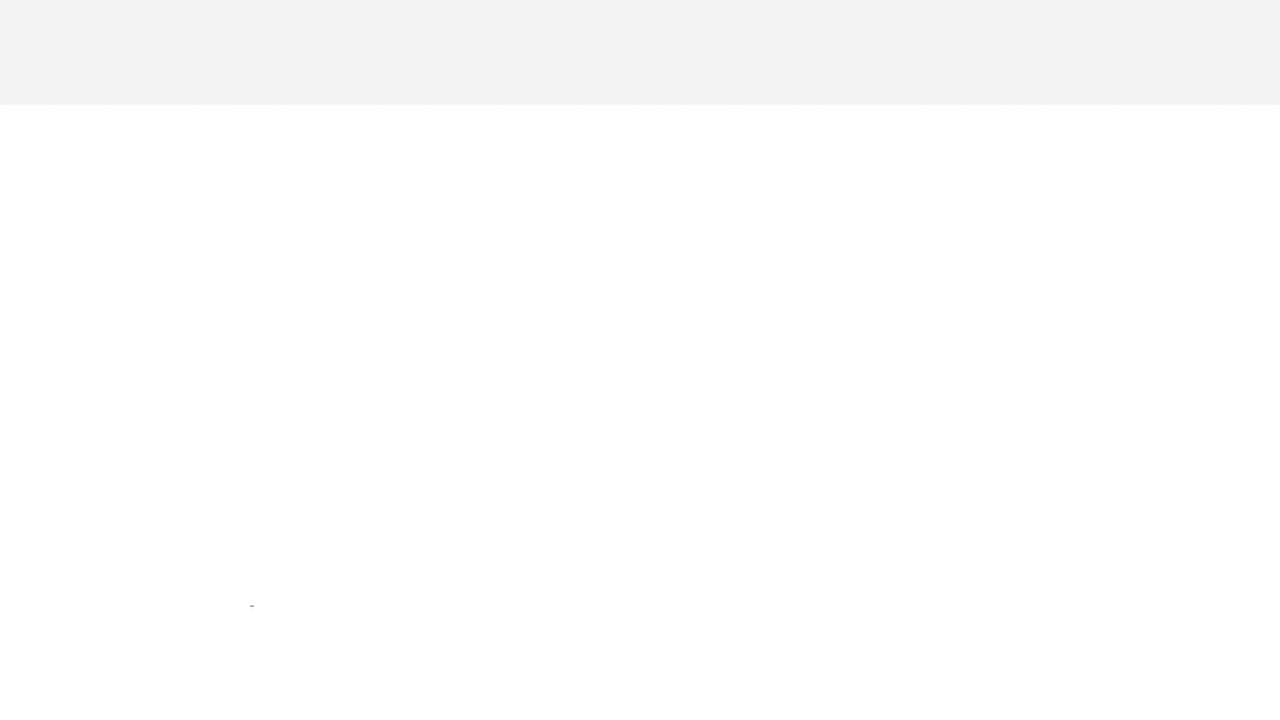
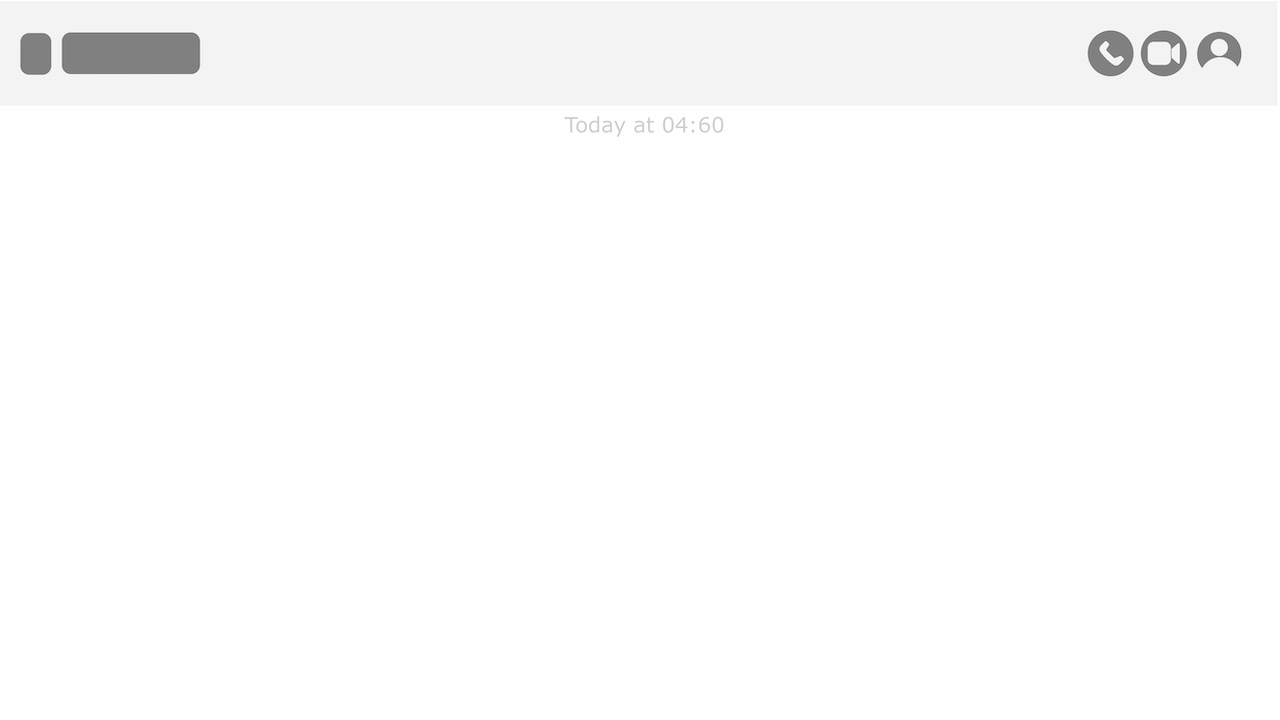
Updated visuals

Changed region(s): [[0.0, 0.0306, 0.1562, 0.1222], [0.8438, 0.0306, 0.9688, 0.1222], [0.4375, 0.1528, 0.5625, 0.1833]]

diff --git a/istyping/istyping.py b/istyping/istyping.py
@@ -34,6 +34,7 @@ h5 = pygame.font.Font(font_path, 30)
 
 transition_font = pygame.font.Font(bold_font_path, 175)
 name_header = pygame.font.Font(bold_font_path, 90)
+prompt_font = pygame.font.Font(bold_font_path, 100)
 
 #set up sound, referenced from: https://opensource.com/article/20/9/add-sound-python-game
 pygame.mixer.init()
@@ -219,6 +220,7 @@ class FriendScreen:
     def __init__(self):
         self.name = "FRIEND"
         self.bg = pygame.image.load("istyping/images/text_screen_bg.jpg")
+        self.prompt = pygame.image.load("istyping/images/prompt.jpg")
 
         global optionHigh
         global optionNeu
@@ -259,6 +261,7 @@ class DateScreen:
         self.name = "DATE"
         self.currMessage = ""
         self.bg = pygame.image.load("istyping/images/text_screen_bg.jpg")
+        self.prompt = pygame.image.load("istyping/images/prompt.jpg")
 
         global optionHigh
         global optionNeu
@@ -275,6 +278,7 @@ class BossScreen:
     def __init__(self):
         self.name = "BOSS"
         self.currMessage = None
+        self.prompt = pygame.image.load("istyping/images/prompt.jpg")
 
         #set up the first messages to display, based on the boss' professionalism characteristic
         if preferences.boss_professionalism >=50:
@@ -370,6 +374,7 @@ def mainLoop():
                 state = CREDITS
 
 #text loop - used by the friend, date and boss screens to draw the UI
+dotcount = 1
 def textScreen():
     screen.fill((255,255,255))
     screen.blit(currScreen.bg.convert(), (0,0))
@@ -447,25 +452,25 @@ def textScreen():
             formatted_selected = grammar.format_text(display_selected, MAX_TEXT_LENGTH)
             if len(formatted_selected) == 4:
                 low_num_lines = LOW_4LINES_Y
-                screen.blit(h4.render(formatted_selected[0], True, (0,0,0)), (708, low_num_lines))
-                screen.blit(h4.render(formatted_selected[1], True, (0,0,0)), (708, low_num_lines+21))
-                screen.blit(h4.render(formatted_selected[2], True, (0,0,0)), (708, low_num_lines+42))
-                screen.blit(h4.render(formatted_selected[3], True, (0,0,0)), (708, low_num_lines+63))
+                screen.blit(h4.render(formatted_selected[0], True, (255,255,255)), (708, low_num_lines))
+                screen.blit(h4.render(formatted_selected[1], True, (255,255,255)), (708, low_num_lines+21))
+                screen.blit(h4.render(formatted_selected[2], True, (255,255,255)), (708, low_num_lines+42))
+                screen.blit(h4.render(formatted_selected[3], True, (255,255,255)), (708, low_num_lines+63))
             elif len(formatted_selected) == 3: #3 lines
                 low_num_lines = LOW_3LINES_Y
-                screen.blit(h4.render(formatted_selected[0], True, (0,0,0)), (708, low_num_lines))
-                screen.blit(h4.render(formatted_selected[1], True, (0,0,0)), (708, low_num_lines+24))
-                screen.blit(h4.render(formatted_selected[2], True, (0,0,0)), (708, low_num_lines+48))
+                screen.blit(h4.render(formatted_selected[0], True, (255,255,255)), (708, low_num_lines))
+                screen.blit(h4.render(formatted_selected[1], True, (255,255,255)), (708, low_num_lines+24))
+                screen.blit(h4.render(formatted_selected[2], True, (255,255,255)), (708, low_num_lines+48))
             elif len(formatted_selected) == 2: #2 lines
                 low_num_lines = LOW_2LINES_Y
-                screen.blit(h4.render(formatted_selected[0], True, (0,0,0)), (708, low_num_lines))
-                screen.blit(h4.render(formatted_selected[1], True, (0,0,0)), (708, low_num_lines+24))
+                screen.blit(h4.render(formatted_selected[0], True, (255,255,255)), (708, low_num_lines))
+                screen.blit(h4.render(formatted_selected[1], True, (255,255,255)), (708, low_num_lines+24))
             elif len(formattedLow) == 1: #1 line
                 low_num_lines = LOW_1LINE_Y
-                screen.blit(h4.render(formatted_selected[0], True, (0,0,0)), (708, low_num_lines))
+                screen.blit(h4.render(formatted_selected[0], True, (255,255,255)), (708, low_num_lines))
             else:
                 low_num_lines = LOW_1LINE_Y
-                screen.blit(h4.render("Error: Line Too Long", True, (0,0,0)), (708, low_num_lines))
+                screen.blit(h4.render("Error: Line Too Long", True, (255,255,255)), (708, low_num_lines))
 
 
     #for each of the options, check how many lines they need and display as needed
@@ -580,6 +585,17 @@ def textScreen():
     end_angle = 2 * math.pi * percentage
     pygame.draw.arc(window, (100, 100, 100), pygame.Rect(854, 200, 64, 64), 0, end_angle, 4)
 
+    #show the prompt for the user to use the pressure sensor
+    if arduino_countdown > 0:
+        global dotcount
+        if dotcount == 1:
+            dots = "."
+        elif dotcount == 2:
+            dots = ".."
+        else:
+            dots = "..."
+        screen.blit(currScreen.prompt.convert(), (56,570))
+        screen.blit(prompt_font.render(dots, True, (255,255,255)), (200, 547))
 
     #nested method for retrieving messages from grammar sets/Gemini API
     def get_messages():
@@ -748,6 +764,13 @@ def textScreen():
             if countingdown:
                 if arduino_countdown > 0:
                     arduino_countdown -= 1
+
+                    #update prompt animation
+                    if dotcount < 3:
+                        dotcount+=1
+                    else:
+                        dotcount = 1
+
                     if arduino_countdown < 3:
                         global countdown_tick
                         pygame.mixer.Sound.play(countdown_tick)
